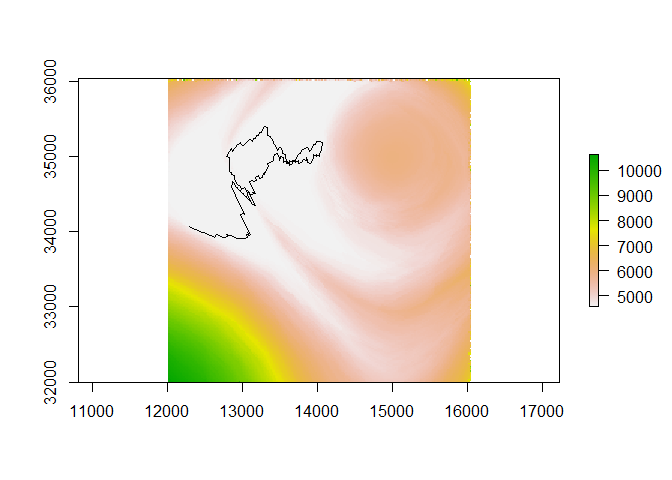
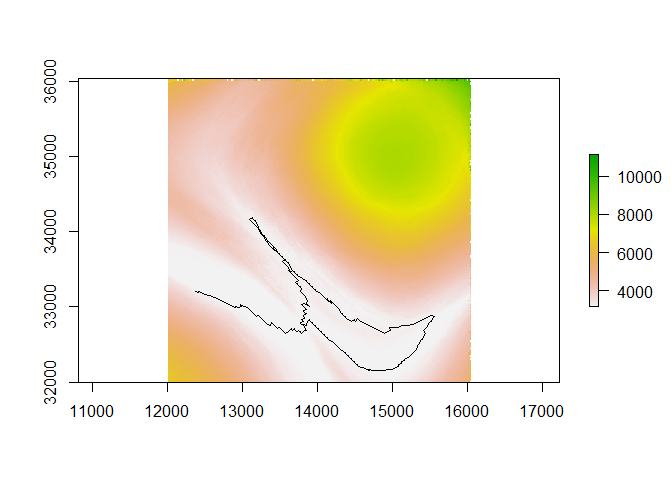
Fixed issue with sampling for categorical cost rasters

Changed region(s): [[0.25, 0.1562, 0.7188, 0.8125], [0.9062, 0.3438, 1.0, 0.6562]]

diff --git a/README.md b/README.md
@@ -142,36 +142,17 @@ points <- data.table(x = runif(5, extent(dem)[1], extent(dem)[2]),
                            
 # Run whichTiles and getMap to prepare appropriate sector files
 tile_list <- whichTiles(region = points, polys = grid) 
+#> Loading required namespace: rgeos
 print(tile_list)
 #> [1] "SECTOR_17" "SECTOR_5"  "SECTOR_1"  "SECTOR_10"
 
 getMap(tiles = tile_list, polys = grid, dir = dir)
+#> [1] "Cropping Tile SECTOR_17 (1 of 4)"
+#> [1] "Cropping Tile SECTOR_5 (2 of 4)"
+#> [1] "Cropping Tile SECTOR_1 (3 of 4)"
+#> [1] "Cropping Tile SECTOR_10 (4 of 4)"
 print(list.files(dir,recursive=TRUE, pattern = ".gz$"))
-#>  [1] "Categorical/Elevations/SECTOR_1.gz"      "Categorical/Elevations/SECTOR_11.gz"    
-#>  [3] "Categorical/Elevations/SECTOR_12.gz"     "Categorical/Elevations/SECTOR_13.gz"    
-#>  [5] "Categorical/Elevations/SECTOR_14.gz"     "Categorical/Elevations/SECTOR_16.gz"    
-#>  [7] "Categorical/Elevations/SECTOR_17.gz"     "Categorical/Elevations/SECTOR_18.gz"    
-#>  [9] "Categorical/Elevations/SECTOR_19.gz"     "Categorical/Elevations/SECTOR_2.gz"     
-#> [11] "Categorical/Elevations/SECTOR_3.gz"      "Categorical/Elevations/SECTOR_4.gz"     
-#> [13] "Categorical/Elevations/SECTOR_6.gz"      "Categorical/Elevations/SECTOR_7.gz"     
-#> [15] "Categorical/Elevations/SECTOR_8.gz"      "Categorical/Elevations/SECTOR_9.gz"     
-#> [17] "Categorical/Tensors/SECTOR_12_Tensor.gz" "Categorical/Tensors/SECTOR_13_Tensor.gz"
-#> [19] "Categorical/Tensors/SECTOR_7_Tensor.gz"  "Categorical/Tensors/SECTOR_8_Tensor.gz" 
-#> [21] "Elevations/SECTOR_1.gz"                  "Elevations/SECTOR_10.gz"                
-#> [23] "Elevations/SECTOR_11.gz"                 "Elevations/SECTOR_12.gz"                
-#> [25] "Elevations/SECTOR_13.gz"                 "Elevations/SECTOR_14.gz"                
-#> [27] "Elevations/SECTOR_15.gz"                 "Elevations/SECTOR_16.gz"                
-#> [29] "Elevations/SECTOR_17.gz"                 "Elevations/SECTOR_18.gz"                
-#> [31] "Elevations/SECTOR_19.gz"                 "Elevations/SECTOR_2.gz"                 
-#> [33] "Elevations/SECTOR_20.gz"                 "Elevations/SECTOR_21.gz"                
-#> [35] "Elevations/SECTOR_22.gz"                 "Elevations/SECTOR_23.gz"                
-#> [37] "Elevations/SECTOR_24.gz"                 "Elevations/SECTOR_25.gz"                
-#> [39] "Elevations/SECTOR_3.gz"                  "Elevations/SECTOR_4.gz"                 
-#> [41] "Elevations/SECTOR_5.gz"                  "Elevations/SECTOR_6.gz"                 
-#> [43] "Elevations/SECTOR_7.gz"                  "Elevations/SECTOR_8.gz"                 
-#> [45] "Elevations/SECTOR_9.gz"                  "Tensors/SECTOR_12_Tensor.gz"            
-#> [47] "Tensors/SECTOR_13_Tensor.gz"             "Tensors/SECTOR_7_Tensor.gz"             
-#> [49] "Tensors/SECTOR_8_Tensor.gz"
+#> [1] "Elevations/SECTOR_1.gz"  "Elevations/SECTOR_10.gz" "Elevations/SECTOR_17.gz" "Elevations/SECTOR_5.gz"
 ```
 
 By far the most computationally intensive part of the workflow is the
@@ -192,6 +173,20 @@ crs(tiles) <- crs(grid)
 tiles <- whichTiles(region = tiles, polys = grid)
 
 makeWorld(tiles = tiles, polys = grid, cut_slope = 0.5, z_fix = dem, dir = dir)
+#> [1] "Cropping Tile SECTOR_2 (1 of 8)"
+#> [1] "Cropping Tile SECTOR_3 (2 of 8)"
+#> [1] "Cropping Tile SECTOR_6 (3 of 8)"
+#> [1] "Cropping Tile SECTOR_7 (4 of 8)"
+#> [1] "Cropping Tile SECTOR_8 (5 of 8)"
+#> [1] "Cropping Tile SECTOR_11 (6 of 8)"
+#> [1] "Cropping Tile SECTOR_12 (7 of 8)"
+#> [1] "Cropping Tile SECTOR_13 (8 of 8)"
+#> [1] "Cropping Tile SECTOR_4 (1 of 3)"
+#> [1] "Cropping Tile SECTOR_9 (2 of 3)"
+#> [1] "Cropping Tile SECTOR_14 (3 of 3)"
+#> [1] "Cropping Tile SECTOR_16 (1 of 2)"
+#> [1] "Cropping Tile SECTOR_18 (2 of 2)"
+#> [1] "Cropping Tile SECTOR_19 (1 of 1)"
 ```
 
 `makeWorld` internally calls `getMap` so you do not need to prepare the
@@ -278,6 +273,13 @@ data <- data.table(x = runif(10000,extent(dem)[1],extent(dem)[2]),
                    ID = rep(1:10,each=1000))
 
 velocity <- getVelocity(data = data, z = grid, dir = dir)
+#> [1] "Cropping Tile SECTOR_23 (1 of 7)"
+#> [1] "Cropping Tile SECTOR_20 (2 of 7)"
+#> [1] "Cropping Tile SECTOR_21 (3 of 7)"
+#> [1] "Cropping Tile SECTOR_24 (4 of 7)"
+#> [1] "Cropping Tile SECTOR_25 (5 of 7)"
+#> [1] "Cropping Tile SECTOR_22 (6 of 7)"
+#> [1] "Cropping Tile SECTOR_15 (7 of 7)"
 ```
 
 So what happened? `getVelocity` called `whichTiles` and `getMap` to
@@ -300,18 +302,18 @@ print(velocity)
     #>    model:  dl_dt ~ v_max * exp(-k * abs(dz_dl - alpha)) 
     #>     data:  data 
     #>      tau:  0.995 
-    #> deviance:  428573.2 
+    #> deviance:  428763.3 
     #>          k      alpha 
-    #>  0.7260741 50.2094994 
+    #>  0.7231671 34.6523385 
     #> 
     #> $vmax
     #> [1] 90.81751
     #> 
     #> $alpha
-    #> [1] 50.2095
+    #> [1] 34.65234
     #> 
     #> $k
-    #> [1] 0.7260741
+    #> [1] 0.7231671
     #> 
     #> $tau_vmax
     #> [1] 0.995
@@ -320,18 +322,18 @@ print(velocity)
     #> [1] 0.95
     #> 
     #> $data
-    #>        ID        x        y         z  dt         dx         dy         dz       dl    dl_dt        dz_dl
-    #>     1:  1 14184.43 37082.75 296.04593 120         NA         NA         NA       NA       NA           NA
-    #>     2:  1 13726.24 35062.09 417.70062 120  -458.1817 -2020.6651  121.65469 2071.960 17.26633  0.058714792
-    #>     3:  1 11211.38 31641.73  22.39640 120 -2514.8615 -3420.3624 -395.30422 4245.398 35.37832 -0.093113575
-    #>     4:  1 16539.87 30648.36 140.43419 120  5328.4904  -993.3627  118.03779 5420.293 45.16911  0.021777011
-    #>     5:  1 19063.24 34536.91 241.01436 120  2523.3705  3888.5521  100.58017 4635.541 38.62950  0.021697614
-    #>    ---                                                                                                   
-    #>  9996: 10 16832.04 33654.95 266.82159 120  4605.6630 -4322.2371  202.44404 6316.159 52.63466  0.032051764
-    #>  9997: 10 13210.97 38417.22 126.65144 120 -3621.0667  4762.2646 -140.17016 5982.582 49.85485 -0.023429709
-    #>  9998: 10 18523.71 37188.86  85.44712 120  5312.7413 -1228.3575  -41.20432 5452.897 45.44081 -0.007556409
-    #>  9999: 10 16082.61 34620.62 426.77194 120 -2441.1016 -2568.2359  341.32482 3543.277 29.52731  0.096330265
-    #> 10000: 10 11045.88 38322.00  20.53027 120 -5036.7365  3701.3801 -406.24168 6250.514 52.08762 -0.064993319
+    #>        ID        x        y         z  dt        dx         dy           dz       dl    dl_dt         dz_dl
+    #>     1:  1 16420.51 30361.88 150.07179 120        NA         NA           NA       NA       NA            NA
+    #>     2:  1 11469.18 34631.81 253.31918 120 -4951.330  4269.9288  103.2473907 6538.192 54.48494  1.579143e-02
+    #>     3:  1 14588.41 38432.77 253.17284 120  3119.230  3800.9694   -0.1463470 4917.008 40.97506 -2.976344e-05
+    #>     4:  1 11831.30 34478.95 254.25383 120 -2757.114 -3953.8293    1.0809937 4820.212 40.16843  2.242627e-04
+    #>     5:  1 15071.26 39050.63 253.65779 120  3239.966  4571.6794   -0.5960388 5603.359 46.69466 -1.063717e-04
+    #>    ---                                                                                                     
+    #>  9996: 10 11233.93 36415.67 158.30630 120 -4194.902 -1518.7086 -108.6871948 4461.353 37.17795 -2.436193e-02
+    #>  9997: 10 18278.64 30475.72  18.48967 120  7044.712 -5939.9532 -139.8166332 9214.717 76.78931 -1.517319e-02
+    #>  9998: 10 19574.08 31845.61  22.57398 120  1295.433  1369.8909    4.0843067 1885.404 15.71170  2.166277e-03
+    #>  9999: 10 16358.22 34630.29 399.47241 120 -3215.856  2784.6794  376.8984337 4253.959 35.44966  8.859944e-02
+    #> 10000: 10 19598.96 35026.42 251.16046 120  3240.740   396.1307 -148.3119507 3264.861 27.20718 -4.542673e-02
 
 The velocity list contains seven entries:
 
@@ -472,29 +474,29 @@ print(costMatrix)
 #> $time_out
 #>        To_ID
 #> From_ID         1         2         3         4         5
-#>       1    0.0000 1275.3205 2026.1966  698.3684  549.8334
-#>       2  944.7807    0.0000  857.4839 1629.1968  970.7801
-#>       3 1541.9772  674.4063    0.0000 2239.9352 1621.3863
-#>       4  942.6987 2199.1856 2968.3413    0.0000 1107.1418
-#>       5  576.2873 1310.4161 2133.3876  824.7255    0.0000
+#>       1    0.0000 1395.7816 1242.5812 1069.9466 1517.1648
+#>       2 1082.4153    0.0000 1108.1330 1056.3974 2162.5766
+#>       3 1636.5170 1495.8231    0.0000  210.0074 3118.1499
+#>       4 1429.0768 1425.9873  198.9947    0.0000 2912.2346
+#>       5 1295.9609 2134.3752 2521.8492 2360.4505    0.0000
 #> 
 #> $work_out
 #>        To_ID
-#> From_ID         1         2         3         4         5
-#>       1       0.0  564923.4  888643.2  278409.9  243956.8
-#>       2  397404.3       0.0  363276.2  665565.0  401934.1
-#>       3  665752.3  345912.1       0.0  938435.0  724089.3
-#>       4  420245.4  977938.6 1308495.0       0.0  479852.0
-#>       5  239375.0  582084.8  932552.8  394436.7       0.0
+#> From_ID          1          2          3          4          5
+#>       1       0.00  583619.79  591225.68  508232.23  653901.72
+#>       2  535033.94       0.00  370339.85  332748.03  936127.24
+#>       3  690711.57  681507.94       0.00   85678.38 1343675.24
+#>       4  608167.22  653921.89   86876.09       0.00 1261823.36
+#>       5  575704.37  941029.26 1148009.56 1063811.24       0.00
 #> 
 #> $energy_out
 #>        To_ID
 #> From_ID         1         2         3         4         5
-#>       1       0.0  683528.2 1077079.5  344808.0  295194.1
-#>       2  486843.6       0.0  443022.2  818557.5  492216.7
-#>       3  809887.9  408814.7       0.0 1153919.3  874878.2
-#>       4  507916.4 1182462.8 1584550.7       0.0  582816.2
-#>       5  292969.8  703953.5 1130957.8  478083.3       0.0
+#>       1       0.0  713427.5  724387.1  622834.0  796959.3
+#>       2  659922.2       0.0  473396.2  430993.0 1142711.7
+#>       3  842907.6  820619.5       0.0  105209.1 1638657.2
+#>       4  741071.4  786538.7  105511.3       0.0 1537667.9
+#>       5  709363.5 1151885.4 1400710.2 1297165.8       0.0
 ```
 
 1.  If you wish to generate a RasterStack of costs from and/or to all
@@ -528,9 +530,9 @@ structure(costRasters)
 #> resolution : 20, 20  (x, y)
 #> extent     : 12000, 16040, 32000, 36040  (xmin, xmax, ymin, ymax)
 #> crs        : +proj=lcc +lat_0=0 +lon_0=-100 +lat_1=48 +lat_2=33 +x_0=0 +y_0=0 +datum=WGS84 +units=m +no_defs 
-#> names      :     To_4,     To_5,     To_1,     To_2,     To_3 
+#> names      :     To_3,     To_4,     To_2,     To_1,     To_5 
 #> min values :        0,        0,        0,        0,        0 
-#> max values : 3444.914, 3758.710, 3259.500, 4047.210, 4562.430 
+#> max values : 4021.745, 3961.792, 3107.723, 3367.131, 4012.087 
 #> 
 #> 
 #> $time_out
@@ -539,9 +541,9 @@ structure(costRasters)
 #> resolution : 20, 20  (x, y)
 #> extent     : 12000, 16040, 32000, 36040  (xmin, xmax, ymin, ymax)
 #> crs        : +proj=lcc +lat_0=0 +lon_0=-100 +lat_1=48 +lat_2=33 +x_0=0 +y_0=0 +datum=WGS84 +units=m +no_defs 
-#> names      :   From_4,   From_5,   From_1,   From_2,   From_3 
+#> names      :   From_3,   From_4,   From_2,   From_1,   From_5 
 #> min values :        0,        0,        0,        0,        0 
-#> max values : 3876.413, 3400.299, 2956.157, 2998.247, 3432.596 
+#> max values : 4585.668, 4495.367, 3094.081, 3694.854, 3689.835 
 #> 
 #> 
 #> $work_in
@@ -550,9 +552,9 @@ structure(costRasters)
 #> resolution : 20, 20  (x, y)
 #> extent     : 12000, 16040, 32000, 36040  (xmin, xmax, ymin, ymax)
 #> crs        : +proj=lcc +lat_0=0 +lon_0=-100 +lat_1=48 +lat_2=33 +x_0=0 +y_0=0 +datum=WGS84 +units=m +no_defs 
-#> names      :    To_4,    To_5,    To_1,    To_2,    To_3 
+#> names      :    To_3,    To_4,    To_2,    To_1,    To_5 
 #> min values :       0,       0,       0,       0,       0 
-#> max values : 1527516, 1613303, 1372397, 1812929, 2050753 
+#> max values : 1614600, 1553874, 1301084, 1378460, 1753553 
 #> 
 #> 
 #> $work_out
@@ -561,9 +563,9 @@ structure(costRasters)
 #> resolution : 20, 20  (x, y)
 #> extent     : 12000, 16040, 32000, 36040  (xmin, xmax, ymin, ymax)
 #> crs        : +proj=lcc +lat_0=0 +lon_0=-100 +lat_1=48 +lat_2=33 +x_0=0 +y_0=0 +datum=WGS84 +units=m +no_defs 
-#> names      :  From_4,  From_5,  From_1,  From_2,  From_3 
+#> names      :  From_3,  From_4,  From_2,  From_1,  From_5 
 #> min values :       0,       0,       0,       0,       0 
-#> max values : 1700369, 1508594, 1289124, 1226222, 1279139 
+#> max values : 2032178, 2001639, 1352913, 1629741, 1654568 
 #> 
 #> 
 #> $energy_in
@@ -572,9 +574,9 @@ structure(costRasters)
 #> resolution : 20, 20  (x, y)
 #> extent     : 12000, 16040, 32000, 36040  (xmin, xmax, ymin, ymax)
 #> crs        : +proj=lcc +lat_0=0 +lon_0=-100 +lat_1=48 +lat_2=33 +x_0=0 +y_0=0 +datum=WGS84 +units=m +no_defs 
-#> names      :    To_4,    To_5,    To_1,    To_2,    To_3 
+#> names      :    To_3,    To_4,    To_2,    To_1,    To_5 
 #> min values :       0,       0,       0,       0,       0 
-#> max values : 1867313, 1971370, 1677907, 2189321, 2475059 
+#> max values : 1996354, 1928547, 1590102, 1698502, 2138440 
 #> 
 #> 
 #> $energy_out
@@ -583,9 +585,9 @@ structure(costRasters)
 #> resolution : 20, 20  (x, y)
 #> extent     : 12000, 16040, 32000, 36040  (xmin, xmax, ymin, ymax)
 #> crs        : +proj=lcc +lat_0=0 +lon_0=-100 +lat_1=48 +lat_2=33 +x_0=0 +y_0=0 +datum=WGS84 +units=m +no_defs 
-#> names      :  From_4,  From_5,  From_1,  From_2,  From_3 
+#> names      :  From_3,  From_4,  From_2,  From_1,  From_5 
 #> min values :       0,       0,       0,       0,       0 
-#> max values : 2068809, 1834816, 1570855, 1502340, 1598683
+#> max values : 2464906, 2424003, 1646513, 1979158, 2008974
 ```
 
 It’s a list of RasterStacks, each in a slot named after the type of cost
@@ -711,11 +713,14 @@ that difference in value. When the raw values are needed, the `keep_z`
 parameter in `makeWorld` should be a character vector including
 `c('z_i','z_f')`, and also `dz` when the difference between them is
 needed. If the raster is categorical (such as those representing
-discrete landcover types), `dz` should be omitted. If the origin x or y
-coordinates are needed, the `xy1` parameter in `importWorld` should be
-set to `TRUE`, and likewise for the destination coordinates and `xy2`
-parameter. If the distance between the origin and destination are
-needed, `dl = TRUE`:
+discrete landcover types), `dz` should be omitted. In the event of a tie
+in mosaicing rasters, we’ll select the highest integer value
+(`FUN = max`). Don’t forget to set `sampling = 'ngb` if the data is
+categorical and thus it’s inappropriate to employ the default
+`'bilinear'` interpolation. If the origin x or y coordinates are needed,
+the `xy1` parameter in `importWorld` should be set to `TRUE`, and
+likewise for the destination coordinates and `xy2` parameter. If the
+distance between the origin and destination are needed, `dl = TRUE`:
 
 ``` r
 # Generate a categorical DEM
@@ -739,7 +744,7 @@ grid2 <- makeGrid(dem = dem2, nx = n, ny = n)
 
 world2 <- importWorld(region = region, polys = grid2, cut_slope = Inf,
                       z_fix = dem, keep_z = c("z_i","z_f"), dl = TRUE, 
-                      dir = dir2)
+                      FUN = max, sampling = 'ngb', dir = dir2)
 ```
 
 Let’s take a look at the structure of this new world data.table
@@ -812,4 +817,3 @@ plot(paths,add=TRUE)
 ```
 
 <img src="man/figures/README-finalCosts-quiet-1.png" width="100%" />
-<img src="man/figures/README-finalCosts-display-1.png" width="100%" />
